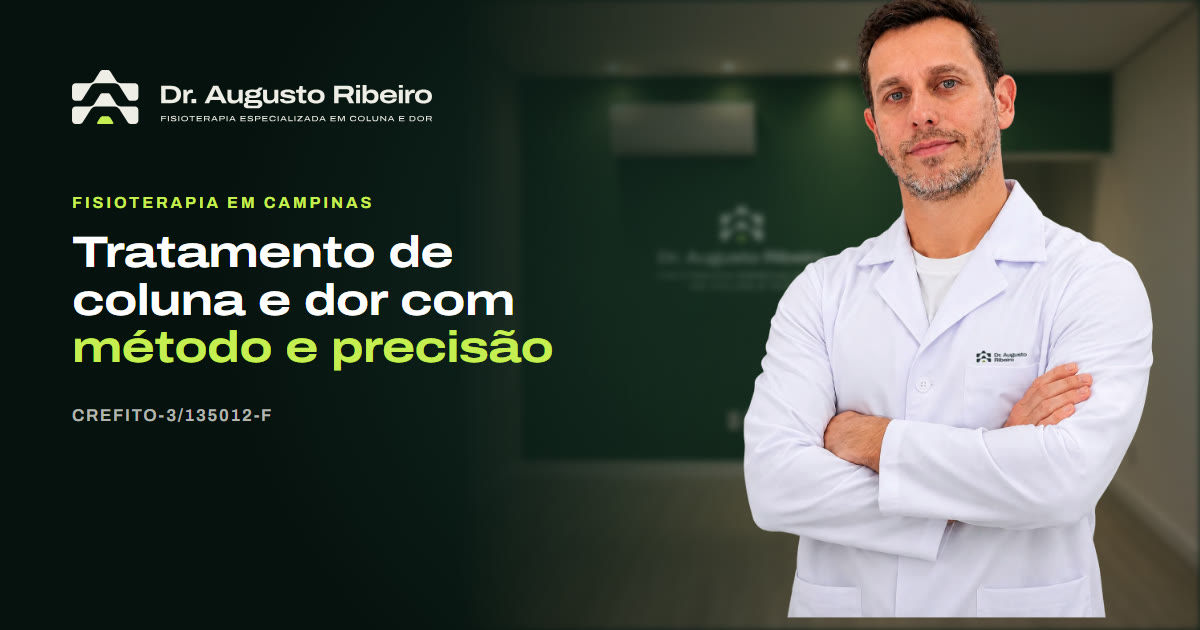
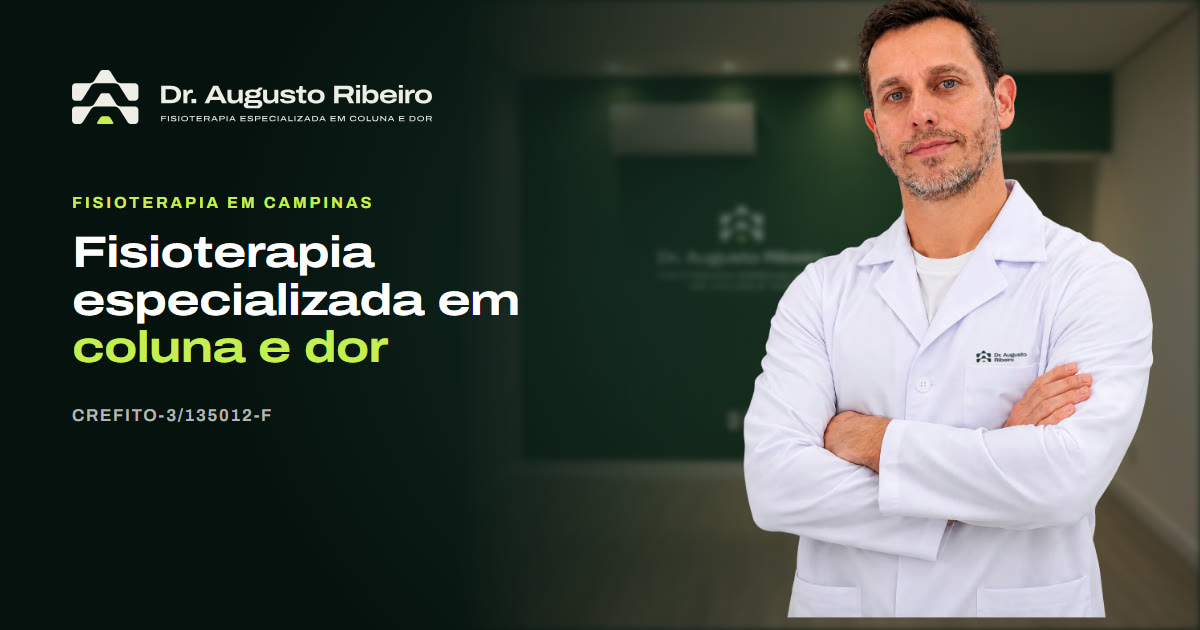
content: headline do hero alinhada à tagline (Fisioterapia especializada em coluna e dor)

Changed region(s): [[0.0617, 0.3619, 0.4625, 0.6032]]

diff --git a/index.html b/index.html
@@ -4,7 +4,7 @@
   <meta charset="UTF-8">
   <meta name="viewport" content="width=device-width, initial-scale=1.0">
   <!-- [GTM] Google Tag Manager: inserir o container do Dr. Augusto aqui quando existir -->
-  <title>Fisioterapia para Coluna e Dor em Campinas | Dr. Augusto Ribeiro</title>
+  <title>Fisioterapia Especializada em Coluna e Dor em Campinas | Dr. Augusto Ribeiro</title>
   <meta name="description" content="Fisioterapeuta em Campinas (SP) com foco no tratamento de coluna e dor: hérnia de disco, nervo ciático, dor lombar e cervical. Atendimento particular. Agende pelo WhatsApp.">
   <meta name="robots" content="index, follow, max-image-preview:large, max-snippet:-1, max-video-preview:-1">
   <link rel="canonical" href="https://www.draugustoribeiro.com.br/">
@@ -18,19 +18,19 @@
   <meta property="og:locale" content="pt_BR">
   <meta property="og:type" content="website">
   <meta property="og:site_name" content="Dr. Augusto Ribeiro">
-  <meta property="og:title" content="Fisioterapia para Coluna e Dor em Campinas | Dr. Augusto Ribeiro">
+  <meta property="og:title" content="Fisioterapia Especializada em Coluna e Dor em Campinas | Dr. Augusto Ribeiro">
   <meta property="og:description" content="Tratamento de coluna e dor em Campinas (SP): hérnia de disco, nervo ciático, dor lombar e cervical. Agende sua avaliação pelo WhatsApp.">
   <meta property="og:url" content="https://www.draugustoribeiro.com.br/">
   <meta property="og:image" content="https://www.draugustoribeiro.com.br/og-share.jpg">
   <meta property="og:image:type" content="image/jpeg">
   <meta property="og:image:width" content="1200">
   <meta property="og:image:height" content="630">
-  <meta property="og:image:alt" content="Dr. Augusto Ribeiro, fisioterapeuta em Campinas, ao lado do texto: Tratamento de coluna e dor">
+  <meta property="og:image:alt" content="Dr. Augusto Ribeiro, fisioterapeuta em Campinas, ao lado do texto: Fisioterapia especializada em coluna e dor">
   <meta name="twitter:card" content="summary_large_image">
-  <meta name="twitter:title" content="Fisioterapia para Coluna e Dor em Campinas | Dr. Augusto Ribeiro">
+  <meta name="twitter:title" content="Fisioterapia Especializada em Coluna e Dor em Campinas | Dr. Augusto Ribeiro">
   <meta name="twitter:description" content="Tratamento de coluna e dor em Campinas (SP): hérnia de disco, nervo ciático, dor lombar e cervical. Agende sua avaliação pelo WhatsApp.">
   <meta name="twitter:image" content="https://www.draugustoribeiro.com.br/og-share.jpg">
-  <meta name="twitter:image:alt" content="Dr. Augusto Ribeiro, fisioterapeuta em Campinas, ao lado do texto: Tratamento de coluna e dor">
+  <meta name="twitter:image:alt" content="Dr. Augusto Ribeiro, fisioterapeuta em Campinas, ao lado do texto: Fisioterapia especializada em coluna e dor">
   <script type="application/ld+json">
     {
       "@context": "https://schema.org",
@@ -50,7 +50,7 @@
           "@type": "MedicalWebPage",
           "@id": "https://www.draugustoribeiro.com.br/#webpage",
           "url": "https://www.draugustoribeiro.com.br/",
-          "name": "Fisioterapia para Coluna e Dor em Campinas | Dr. Augusto Ribeiro",
+          "name": "Fisioterapia Especializada em Coluna e Dor em Campinas | Dr. Augusto Ribeiro",
           "description": "Fisioterapeuta em Campinas (SP) com foco no tratamento de coluna e dor: hérnia de disco, nervo ciático, dor lombar e cervical. Atendimento particular. Agende pelo WhatsApp.",
           "inLanguage": "pt-BR",
           "isPartOf": {
@@ -353,13 +353,13 @@
 
       <div class="hero-content">
         <div class="hero-left">
-          <span class="hero-kicker">Fisioterapia em Campinas · Coluna e dor</span>
+          <span class="hero-kicker">Campinas · Hérnia de disco · Ciático · Lombar</span>
           <h1>
-            <span class="h1-l">Tratamento de</span> <span class="h1-l">coluna e dor com</span> <span class="h1-l gradient-text">método e precisão</span>
+            <span class="h1-l">Fisioterapia</span> <span class="h1-l">especializada em</span> <span class="h1-l gradient-text">coluna e dor</span>
           </h1>
 
           <p class="subtext">
-            Avaliação detalhada, plano de tratamento em etapas e atendimento particular com tempo dedicado, para tratar a causa da dor e devolver o movimento à sua rotina.
+            Fisioterapeuta e educador físico com foco no tratamento de coluna. Avaliação detalhada, plano de tratamento em etapas e atendimento particular, para tratar a causa da dor e devolver o movimento à sua rotina.
           </p>
 
           <a href="https://wa.me/5519997171988?text=Ol%C3%A1%2C%20Dr.%20Augusto!%20Vim%20pelo%20site%20e%20gostaria%20de%20agendar%20uma%20avalia%C3%A7%C3%A3o." class="btn-cta" target="_blank" rel="noopener">
@@ -383,7 +383,7 @@
     <div class="hero-bar glass">
       <div class="hero-bar-inner">
         <h2 class="hero-bar-title"><span>Volte a</span> <span>se movimentar</span> <strong>sem dor</strong></h2>
-        <p class="hero-bar-text">Fisioterapeuta e educador físico, o Dr. Augusto trata a coluna com rigor: entende o seu caso, <strong>explica cada etapa antes de fazer</strong> e acompanha a evolução de perto, para que a melhora seja consistente e você volte às suas atividades com segurança.</p>
+        <p class="hero-bar-text">Com quase duas décadas de estudo do movimento humano, o Dr. Augusto trata a coluna com rigor: entende o seu caso, <strong>explica cada etapa antes de fazer</strong> e acompanha a evolução de perto, para que a melhora seja consistente e você volte às suas atividades com segurança.</p>
       </div>
     </div>
   </section>

diff --git a/compartilhar.html b/compartilhar.html
@@ -3,23 +3,23 @@
 <head>
   <meta charset="UTF-8">
   <meta name="viewport" content="width=device-width, initial-scale=1.0">
-  <title>Fisioterapia para Coluna e Dor em Campinas | Dr. Augusto Ribeiro</title>
+  <title>Fisioterapia Especializada em Coluna e Dor em Campinas | Dr. Augusto Ribeiro</title>
   <meta name="description" content="Tratamento de coluna e dor em Campinas (SP): hérnia de disco, nervo ciático, dor lombar e cervical. Agende sua avaliação pelo WhatsApp.">
   <meta name="robots" content="noindex, follow">
   <link rel="canonical" href="https://www.draugustoribeiro.com.br/">
   <meta property="og:locale" content="pt_BR">
   <meta property="og:type" content="website">
   <meta property="og:site_name" content="Dr. Augusto Ribeiro">
-  <meta property="og:title" content="Fisioterapia para Coluna e Dor em Campinas | Dr. Augusto Ribeiro">
+  <meta property="og:title" content="Fisioterapia Especializada em Coluna e Dor em Campinas | Dr. Augusto Ribeiro">
   <meta property="og:description" content="Tratamento de coluna e dor em Campinas (SP): hérnia de disco, nervo ciático, dor lombar e cervical. Agende sua avaliação pelo WhatsApp.">
   <meta property="og:url" content="https://www.draugustoribeiro.com.br/compartilhar">
   <meta property="og:image" content="https://www.draugustoribeiro.com.br/og-share.jpg">
   <meta property="og:image:type" content="image/jpeg">
   <meta property="og:image:width" content="1200">
   <meta property="og:image:height" content="630">
-  <meta property="og:image:alt" content="Dr. Augusto Ribeiro, fisioterapeuta em Campinas, ao lado do texto: Tratamento de coluna e dor">
+  <meta property="og:image:alt" content="Dr. Augusto Ribeiro, fisioterapeuta em Campinas, ao lado do texto: Fisioterapia especializada em coluna e dor">
   <meta name="twitter:card" content="summary_large_image">
-  <meta name="twitter:title" content="Fisioterapia para Coluna e Dor em Campinas | Dr. Augusto Ribeiro">
+  <meta name="twitter:title" content="Fisioterapia Especializada em Coluna e Dor em Campinas | Dr. Augusto Ribeiro">
   <meta name="twitter:description" content="Tratamento de coluna e dor em Campinas (SP): hérnia de disco, nervo ciático, dor lombar e cervical. Agende sua avaliação pelo WhatsApp.">
   <meta name="twitter:image" content="https://www.draugustoribeiro.com.br/og-share.jpg">
   <link rel="icon" type="image/svg+xml" href="favicon.svg">

diff --git a/links.html b/links.html
@@ -20,12 +20,12 @@
   <meta property="og:image:type" content="image/jpeg">
   <meta property="og:image:width" content="1200">
   <meta property="og:image:height" content="630">
-  <meta property="og:image:alt" content="Dr. Augusto Ribeiro, fisioterapeuta em Campinas, ao lado do texto: Tratamento de coluna e dor">
+  <meta property="og:image:alt" content="Dr. Augusto Ribeiro, fisioterapeuta em Campinas, ao lado do texto: Fisioterapia especializada em coluna e dor">
   <meta name="twitter:card" content="summary_large_image">
   <meta name="twitter:title" content="Links — Dr. Augusto Ribeiro · Fisioterapeuta">
   <meta name="twitter:description" content="Agende sua avaliação, siga no Instagram e veja o endereço do consultório em Campinas.">
   <meta name="twitter:image" content="https://www.draugustoribeiro.com.br/og-share.jpg">
-  <meta name="twitter:image:alt" content="Dr. Augusto Ribeiro, fisioterapeuta em Campinas, ao lado do texto: Tratamento de coluna e dor">
+  <meta name="twitter:image:alt" content="Dr. Augusto Ribeiro, fisioterapeuta em Campinas, ao lado do texto: Fisioterapia especializada em coluna e dor">
   <link rel="icon" href="favicon.ico" sizes="48x48">
   <link rel="icon" type="image/svg+xml" href="favicon.svg">
   <link rel="apple-touch-icon" href="apple-touch-icon.png">
